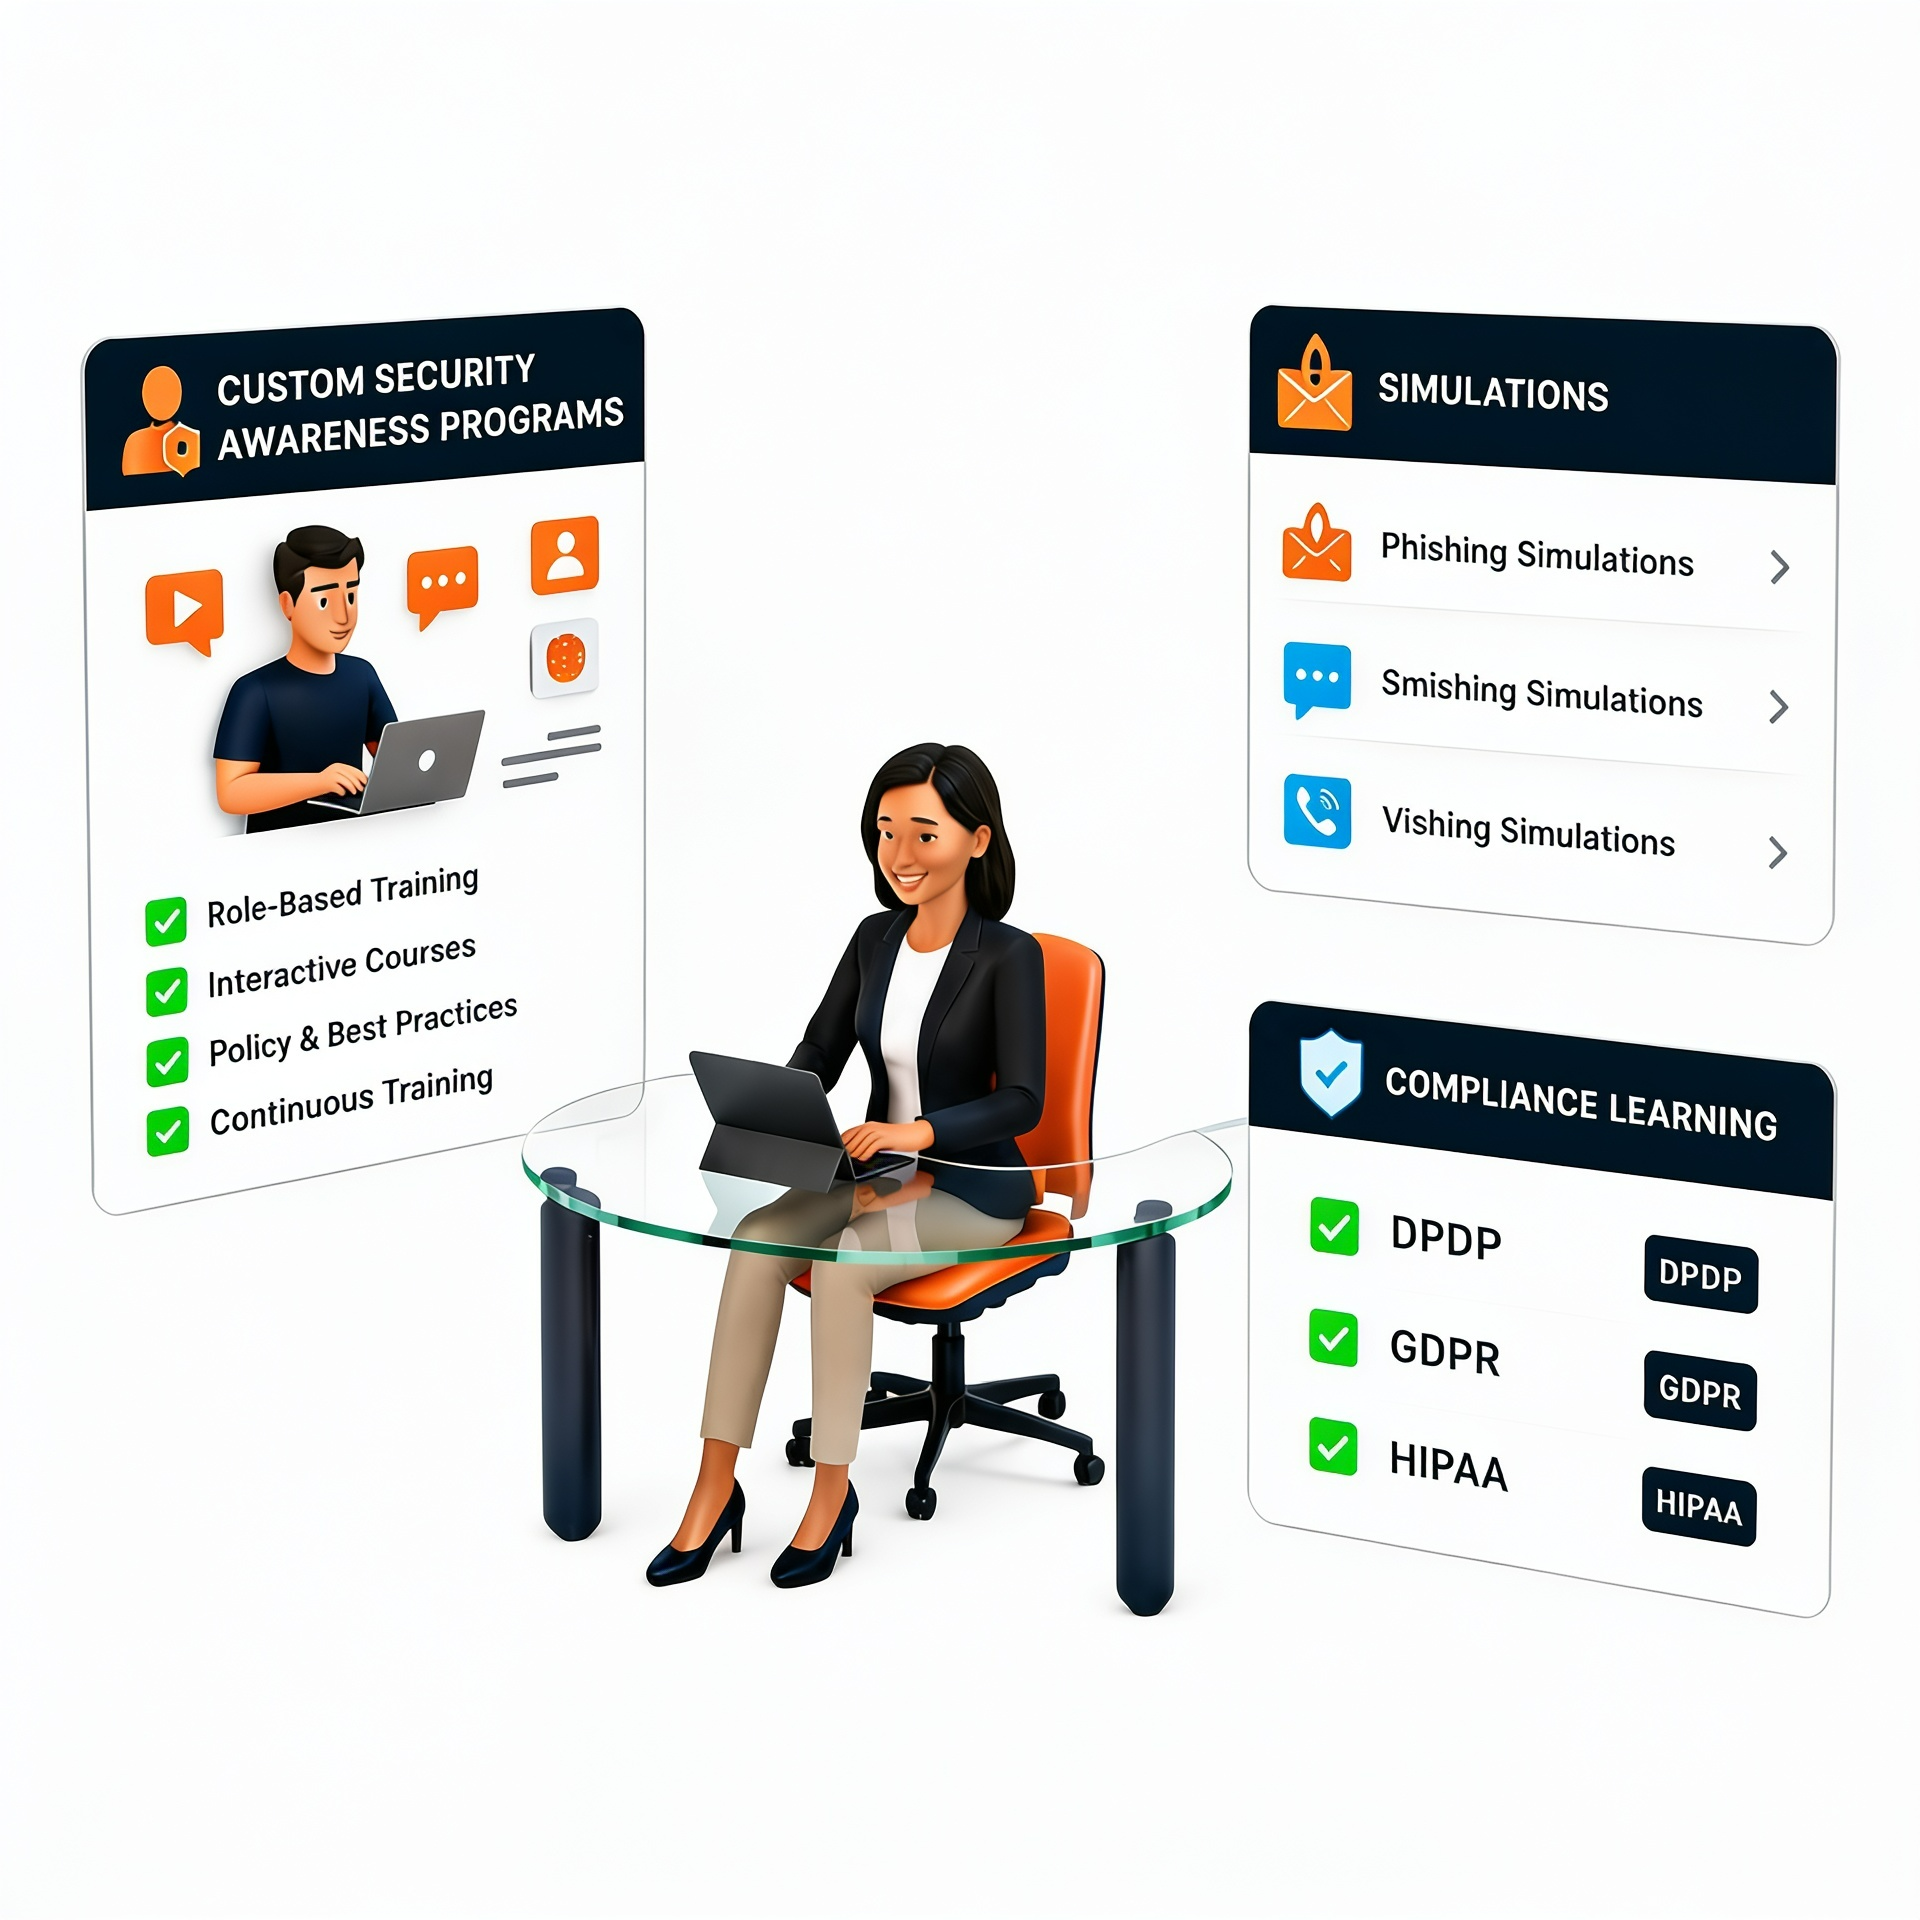
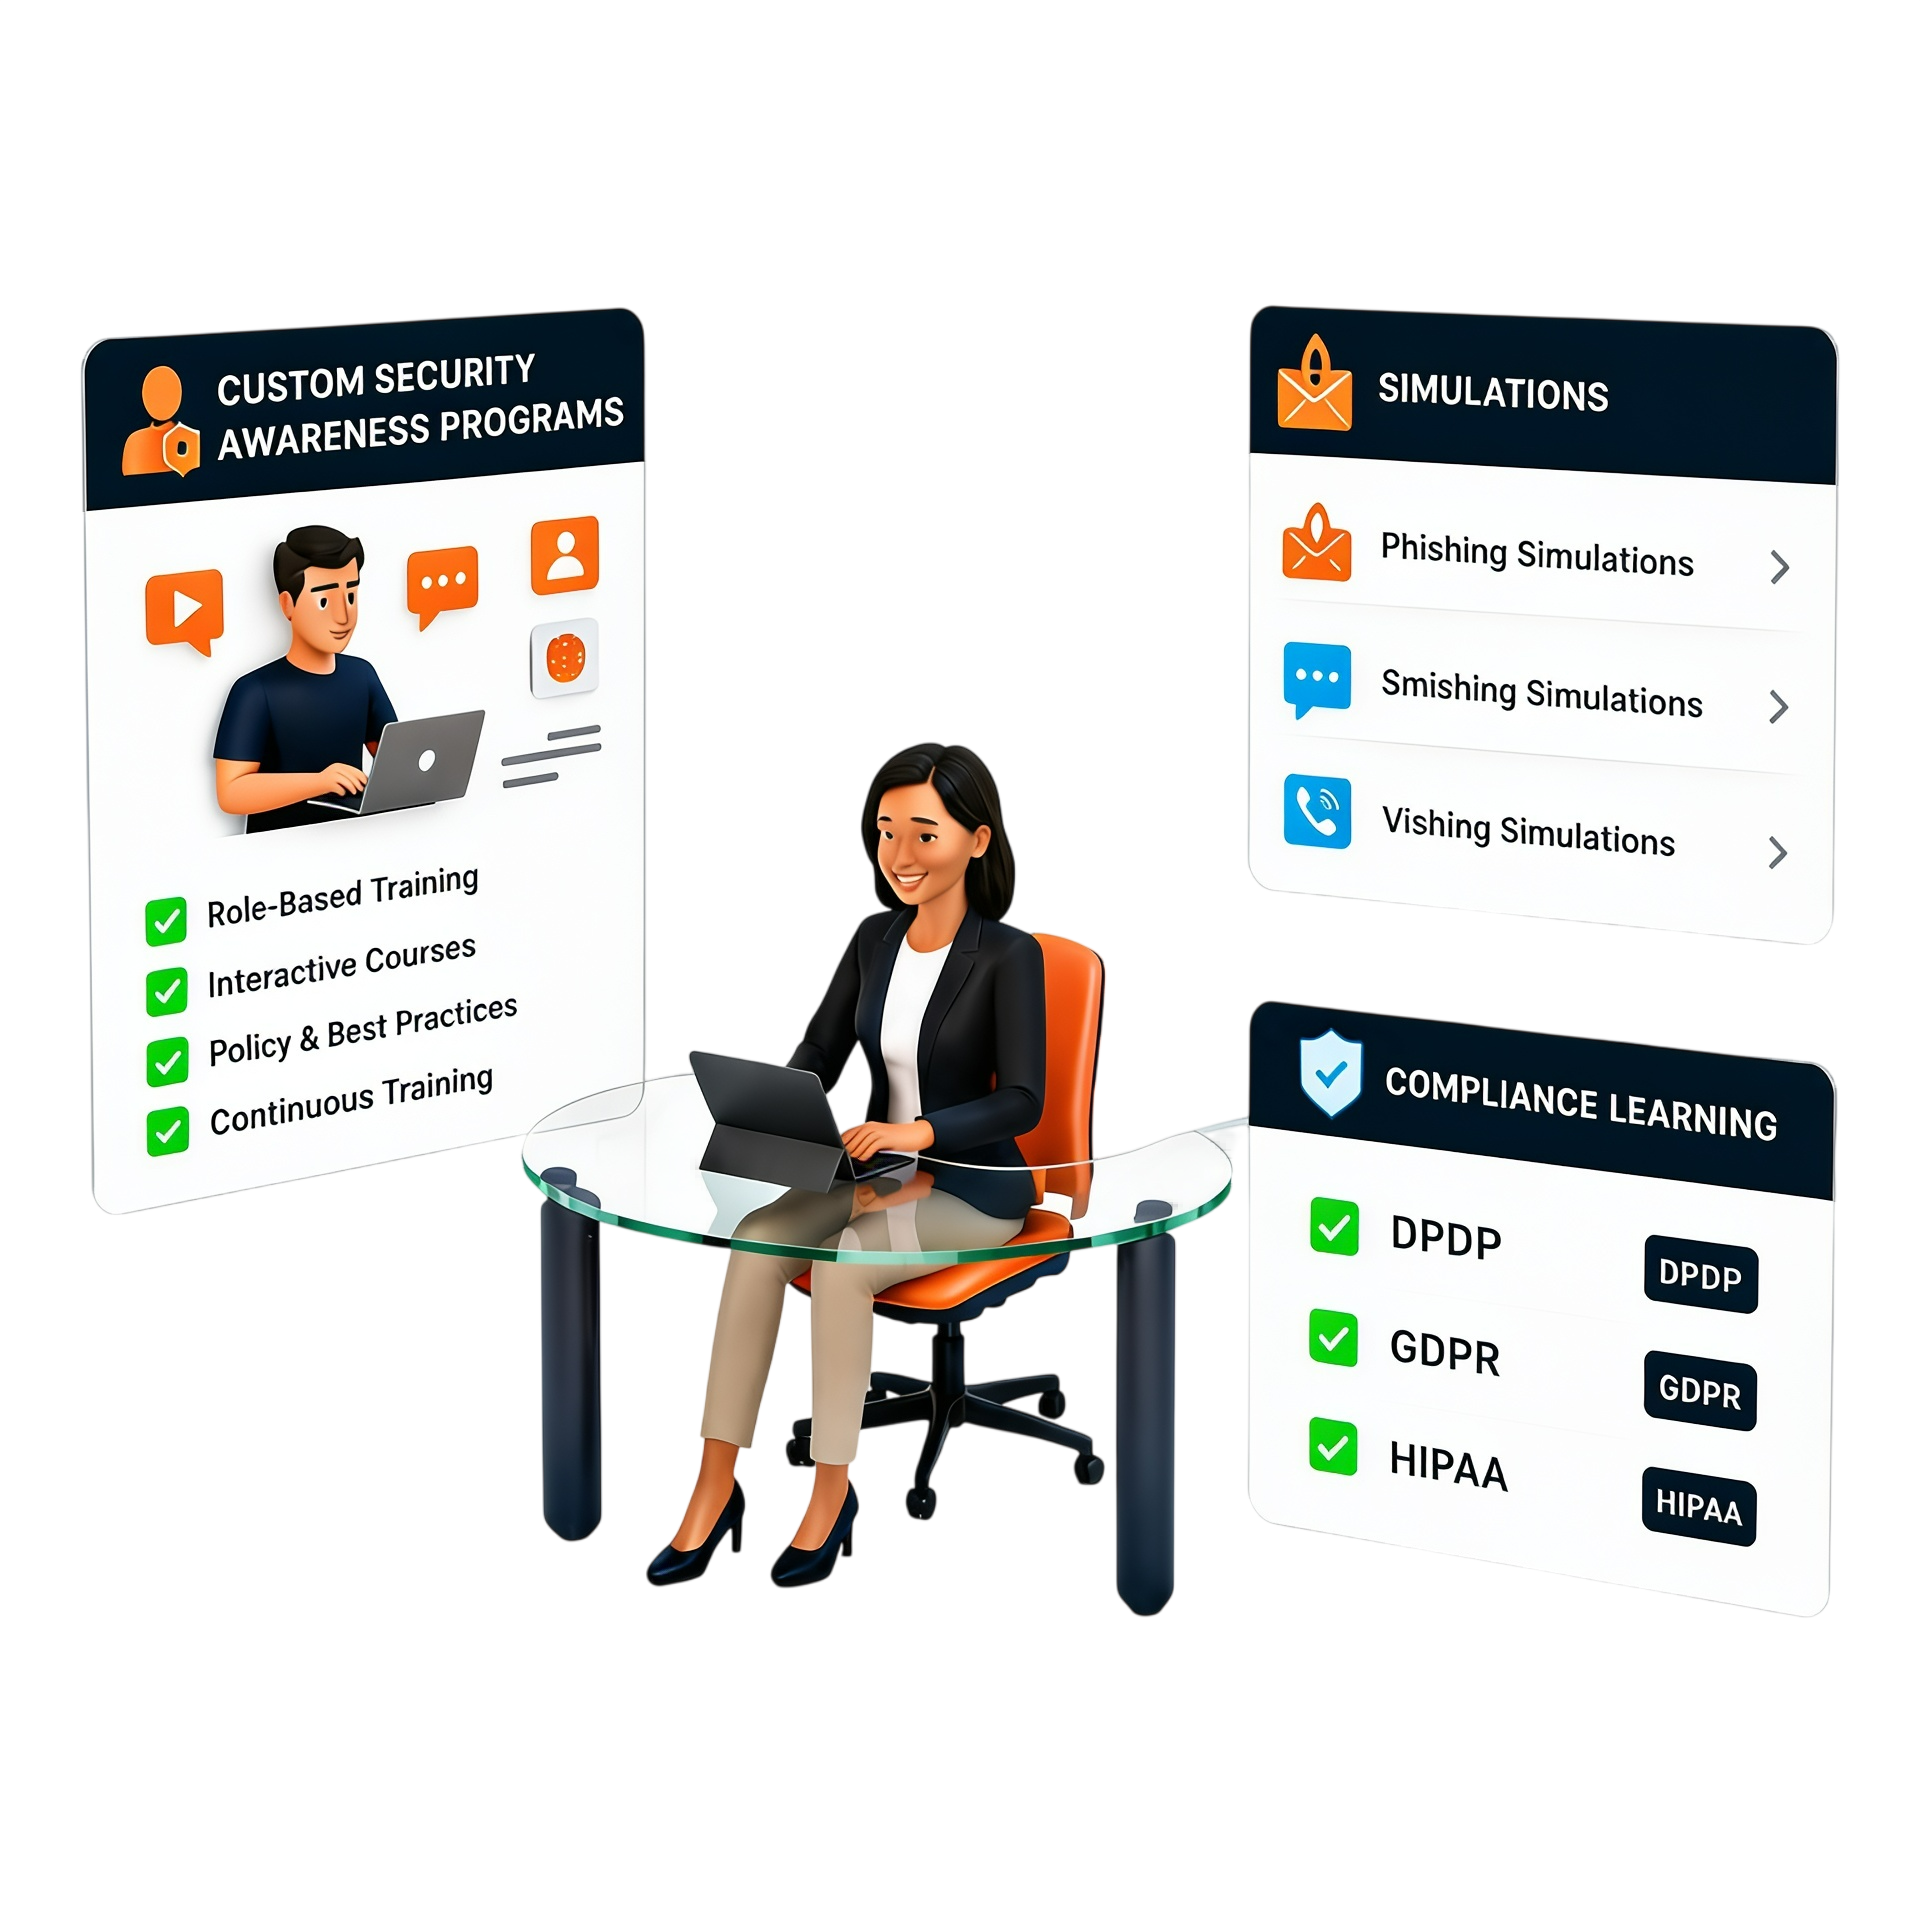
Update UI tweaks

Changed region(s): [[0.4062, 0.7188, 0.5625, 0.8125], [0.375, 0.7812, 0.4062, 0.8125]]

diff --git a/layouts/partials/ShortIntro.js b/layouts/partials/ShortIntro.js
@@ -9,14 +9,16 @@ const ShortIntro = ({ intro }) => {
     <section className="section pt-0">
       <div className="container-xl">
         <div className="relative px-4 py-[70px]">
-          <div className="text-center">
-            <div className="animate">
-              <p>{intro.subtitle}</p>
-              {markdownify(intro.title, "h2", "mt-4 section-title leading-tight")}
-              {markdownify(intro.description, "p", "mt-10")}
+          <div className="flex flex-col lg:flex-row items-center gap-12 lg:gap-16 text-center lg:text-left relative z-10">
+            <div className="w-full lg:w-1/2 flex justify-center lg:justify-start">
+              <div className="w-full max-w-[580px] shadow-lg rounded-2xl overflow-hidden border-4 border-white/80">
+                <VideoPopup id={intro.video_id} thumbnail={intro.thumbnail} />
+              </div>
             </div>
-            <div className="mx-auto mt-10 h-full max-h-[320px] w-full max-w-[580px] shadow-lg rounded-2xl overflow-hidden border-4 border-white/80">
-              <VideoPopup id={intro.video_id} thumbnail={intro.thumbnail} />
+            <div className="w-full lg:w-1/2 animate">
+              {intro.subtitle && <p className="mb-4">{intro.subtitle}</p>}
+              {markdownify(intro.title, "h2", "mb-8 text-4xl md:text-5xl lg:text-6xl font-medium leading-tight")}
+              {markdownify(intro.description, "p", "mt-6 text-lg")}
             </div>
           </div>
           <div className="bg-theme absolute left-0 top-0 w-full">

diff --git a/app/solutions/customized-solutions/page.js b/app/solutions/customized-solutions/page.js
@@ -243,7 +243,7 @@ const CustomizedSolutionsPage = () => {
         <div className="main-content">
           
           {/* 1. HERO SECTION */}
-          <section className="hero-section">
+          <section className="hero-section" style={{ backgroundColor: "var(--color-grey-5)" }}>
             <div className="hero-outer-wrapper">
               
               <div className="container">

diff --git a/app/solutions/human-risk-intelligence/page.js b/app/solutions/human-risk-intelligence/page.js
@@ -150,7 +150,7 @@ const HumanRiskIntelligencePage = () => {
         <div className="main-content">
         
         {/* 1. HERO SECTION */}
-        <section className="hero-section">
+        <section className="hero-section" style={{ backgroundColor: "var(--color-grey-5)" }}>
             <div className="hero-outer-wrapper">
 
                 {/* Background SVG Decor */}

diff --git a/app/solutions/compliance-training/page.js b/app/solutions/compliance-training/page.js
@@ -190,7 +190,7 @@ const ComplianceTrainingPage = () => {
         <div className="main-content">
 
           {/* 1. HERO SECTION */}
-          <section className="hero-section">
+          <section className="hero-section" style={{ backgroundColor: "var(--color-grey-5)" }}>
             <div className="hero-outer-wrapper">
               
               <style>{`

diff --git a/app/solutions/phishing-simulation/page.js b/app/solutions/phishing-simulation/page.js
@@ -229,7 +229,7 @@ const PhishingSimulationPage = () => {
         
 
         
-        <section className="hero-section">
+        <section className="hero-section" style={{ backgroundColor: "var(--color-grey-5)" }}>
             <div className="hero-outer-wrapper">
 
                 <div className="container">

diff --git a/app/solutions/insat/page.js b/app/solutions/insat/page.js
@@ -78,7 +78,7 @@ const InsatPage = () => {
         
 
         
-        <section className="hero-section">
+        <section className="hero-section" style={{ backgroundColor: "var(--color-grey-5)" }}>
             <div className="hero-outer-wrapper">
 
                 

diff --git a/content/_index.md b/content/_index.md
@@ -49,8 +49,8 @@ features:
 
 #intro
 intro:
-  title: Experience the Next-Gen in Security Awareness
-  description: Get a firsthand look at our world-class training modules - cinematic, engaging, and designed to transform employee security behavior.
+  title: "Experience the <br/> Next-Gen in Security Awareness"
+  description: Get a firsthand look at our training modules - cinematic, engaging, and designed to transform employee security behavior.
   thumbnail: "/images/training-thumbnail.png"
   video_id: -tmmOl6JYiY
 
